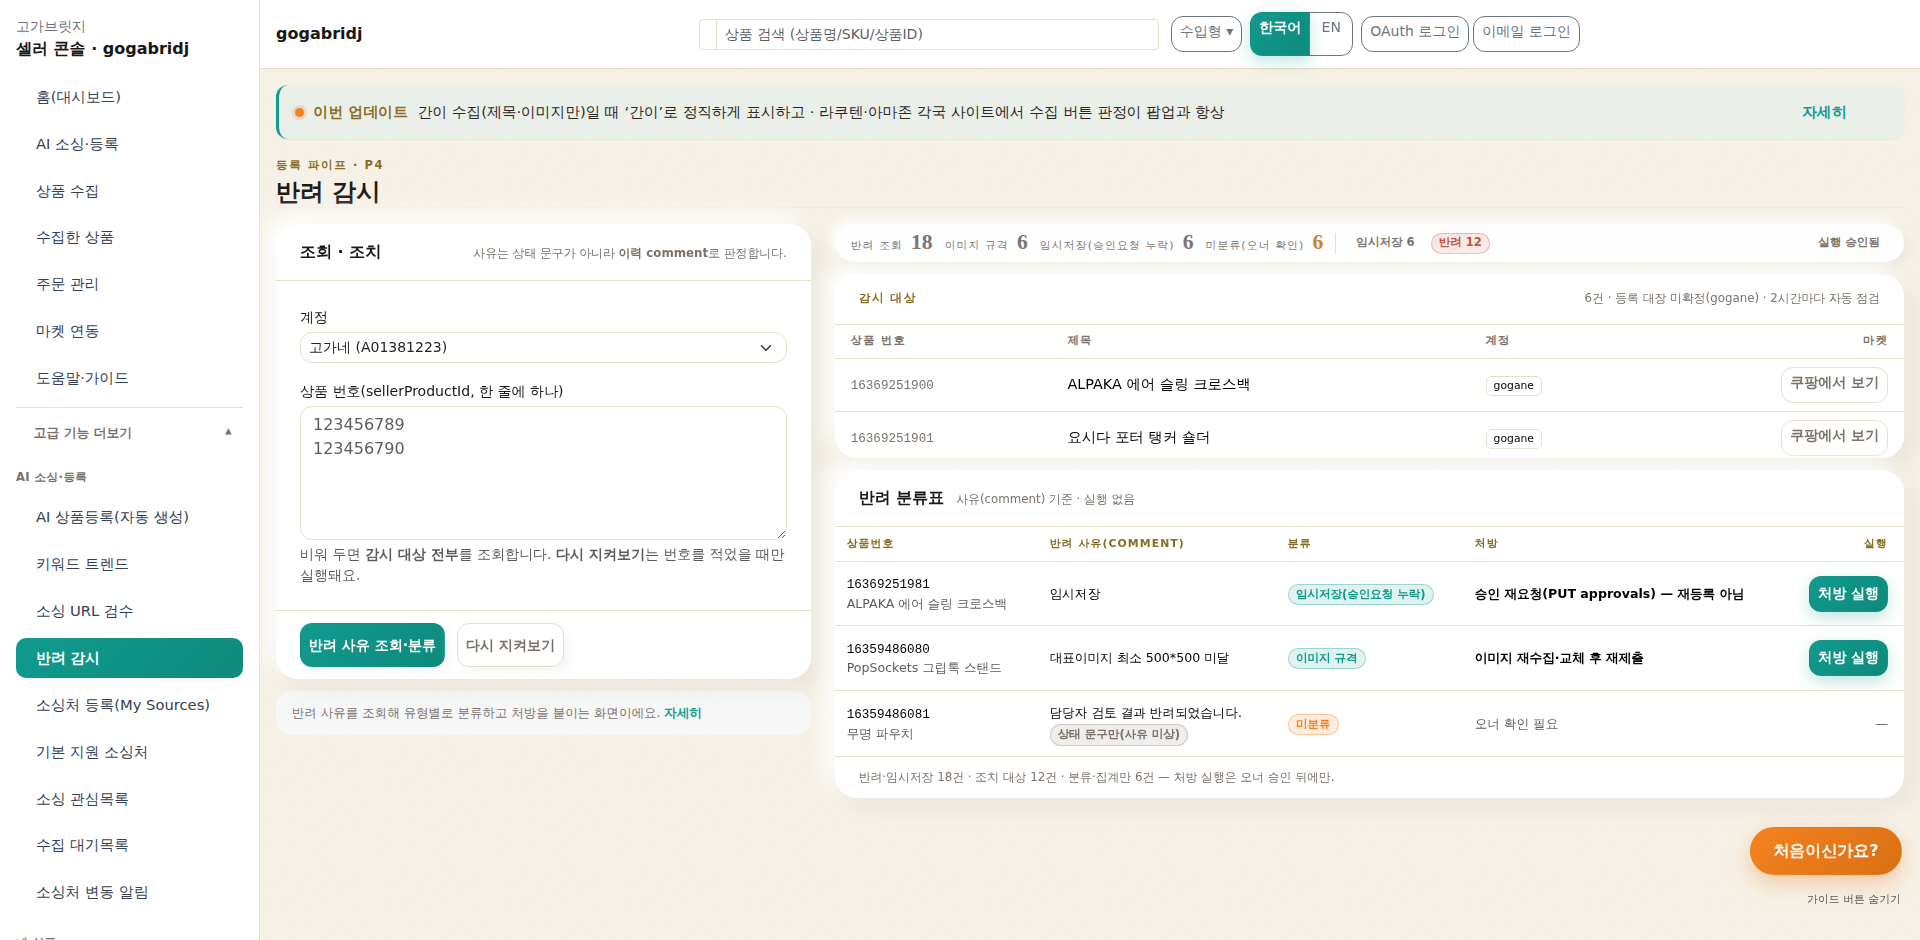
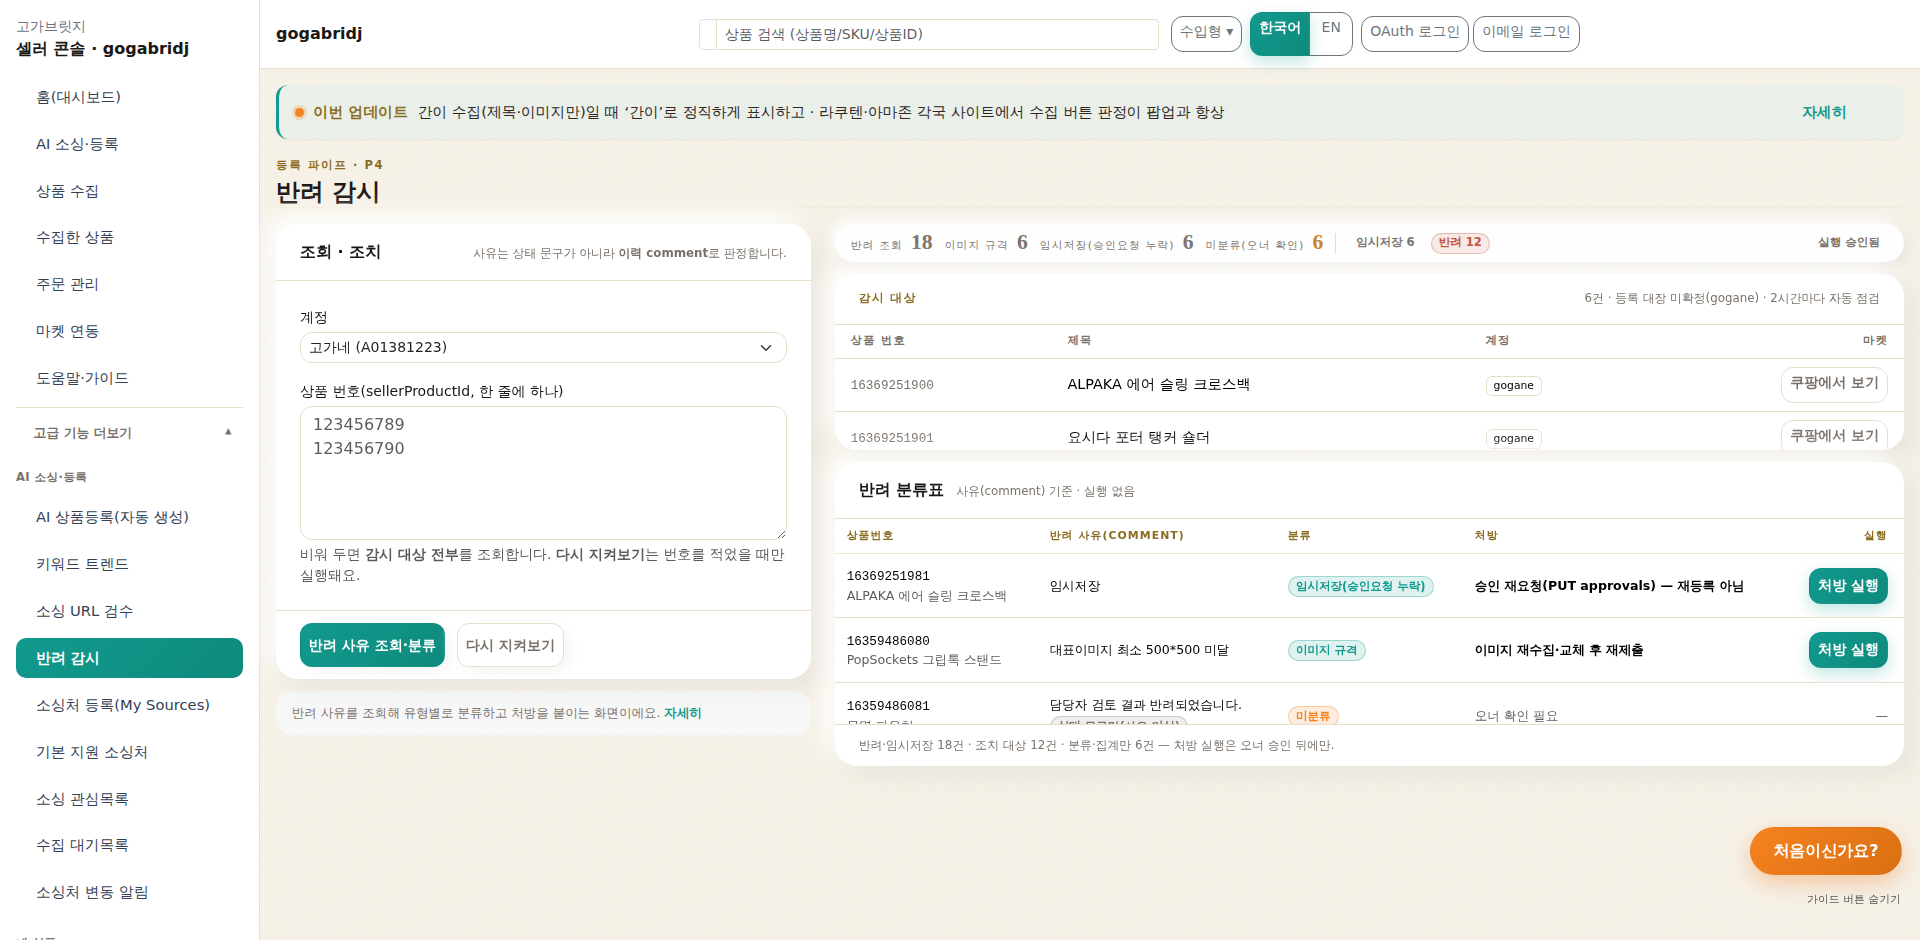
6-h 계약 CI 수리 — 부트스트랩 없이 재면 다른 화면을 잰다
로컬 그린, CI 레드. 원인은 하나다: **CI엔 부트스트랩 CSS가 없었다.**
앱은 그 CSS를 CDN으로 싣는데 캡처 계약은 없이 렌더해서, 같은 화면을 두고
로컬 940 / CI 1161을 쟀다. 숫자가 다른 게 아니라 **잰 대상이 달랐다.**

1) CI가 앱의 실제 스타일시트로 재게 한다 — jsdom과 같은 자리에 `npm install bootstrap@5.3.0`.
2) 탐색 경로를 `node_modules` → `/tmp/bsdl` 순으로 넓히고, **못 찾으면 조용히 넘어가지 않는다.**
   없으면 실패로 드러낸다 — 조용히 다른 화면을 재고 그린을 내는 게 이 결함의 본체였다.
3) 여유를 숫자로 못 박는다. `scrollHeight`는 뷰포트보다 작아지지 않아(clamp) '넘쳤나'만 말하고
   **여유는 못 보여준다.** 콘텐츠 실제 바닥을 재서 20px 여유를 요구한다 —
   CI엔 우리 웹폰트가 없어 글자 높이가 미세하게 다르고, 로컬에서 0px로 맞춘 값이 그래서 깨졌다.
   상한을 32px 깎아 940 → ~908.

전체 12,984 passed / 53 skipped

Claude-Session: https://claude.ai/code/session_01PxGVkp5f6YphwkqMwzi5ZE

diff --git a/src/static/app.css b/src/static/app.css
@@ -1927,9 +1927,10 @@ main:has(> .rp-shell) > .rp-shell { flex: 1 1 auto; height: auto; min-height: 0;
 /* 내부 스크롤은 **이 둘만**(오너 H1). `.op-card-body`가 이미 `overflow-y:auto`라
    카드에 상한만 주면 스크롤이 카드 안으로 들어온다. */
 /* 실측으로 정한 값이다(어림이 아니라): 상한을 이보다 키우면 940을 넘는다.
-   1760 → 945 → 여기서 두 카드 24px을 깎아 **929**. 남는 11px은 폰트·반올림 여유다. */
-.rw-card-watch { max-height: 11.5rem; }
-.rw-card-table { max-height: 20.5rem; }
+   1760 → 945 → 두 카드를 깎아 940. **여기서 32px을 더 깎아 ~908로 둔다** —
+   CI에는 우리 웹폰트가 없어 글자 높이가 미세하게 다르다(로컬 940 정확은 그래서 위험하다). */
+.rw-card-watch { max-height: 11rem; }
+.rw-card-table { max-height: 19rem; }
 
 /* 요약 스트립 — 카드 2장을 한 줄로. 수치는 세리프, 라벨은 오버라인(6-a 문법). */
 .rw-strip { margin-bottom: 0; padding: var(--space-2) var(--space-4); }

diff --git a/tests/test_v40s6h_reject_watch.py b/tests/test_v40s6h_reject_watch.py
@@ -74,9 +74,15 @@ def _pw_ok():
     return cache.is_dir() and any(cache.glob("chromium-*"))
 
 
-CSS_FILES = ("/tmp/bsdl/node_modules/bootstrap/dist/css/bootstrap.min.css",
-             "src/static/app.css", "src/seller_console/static/seller.css",
-             "src/seller_console/static/console.css")
+# 부트스트랩은 앱이 CDN으로 싣는 **실제 스타일시트**다. 없이 재면 다른 화면을 재는 것이고,
+# 그 숫자로 "한 화면에 들어간다"를 말할 수 없다(CI 실측: 없으면 940 대신 1161).
+# 그래서 **조용히 넘어가지 않고** 못 찾으면 그 사실이 실패로 드러나게 한다.
+_BS_CANDIDATES = ("node_modules/bootstrap/dist/css/bootstrap.min.css",
+                  "/tmp/bsdl/node_modules/bootstrap/dist/css/bootstrap.min.css")
+BOOTSTRAP = next((p for p in _BS_CANDIDATES if Path(p).exists()), None)
+CSS_FILES = tuple(x for x in (BOOTSTRAP, "src/static/app.css",
+                              "src/seller_console/static/seller.css",
+                              "src/seller_console/static/console.css") if x)
 
 PROBE = """() => {
   const scrollers = [];
@@ -84,8 +90,12 @@ PROBE = """() => {
     const s = getComputedStyle(e);
     if (/(auto|scroll)/.test(s.overflowY) && e.scrollHeight > e.clientHeight + 4) scrollers.push(1);
   });
+  // scrollHeight는 뷰포트보다 작아지지 않는다(clamp) — 그래서 '넘쳤나'만 알려주고 **여유는 못 보여준다.**
+  //   여유를 재려면 콘텐츠의 실제 바닥을 봐야 한다. CI엔 우리 웹폰트가 없어 글자 높이가 미세하게
+  //   다르니, 로컬에서 딱 맞춘 값은 CI에서 넘칠 수 있다(6-h에서 실제로 그렇게 깨졌다).
+  const main = document.querySelector('main').getBoundingClientRect();
   return {total: document.documentElement.scrollHeight, vh: window.innerHeight,
-          scrollers: scrollers.length,
+          contentBottom: Math.round(main.bottom), scrollers: scrollers.length,
           cols: document.querySelectorAll('.rw-page > .rw-col').length};
 }"""
 
@@ -160,9 +170,14 @@ def test_fits_one_viewport(n_scan, n_watch, label):
     행이 늘 때 페이지가 자라면 상한이 무는 게 아니라 '지금 데이터에서만 맞는' 레이아웃이다.
     그래서 18행짜리도 같이 잰다 — 상한이 실제로 무는지가 이 계약의 값어치다.
     """
+    assert BOOTSTRAP, ("부트스트랩 CSS를 못 찾았다 — 라이브와 **다른 화면**을 재게 된다. "
+                       f"찾은 자리: {_BS_CANDIDATES}")
     r = _measure(n_scan, n_watch)
     assert r["cols"] == 2, "2단이 아니다"
     assert r["total"] <= r["vh"], f"{label}: scrollHeight {r['total']} > 뷰포트 {r['vh']}"
+    # 여유도 함께 못 박는다 — 0px로 맞추면 폰트가 다른 환경에서 바로 넘친다(그게 CI를 깨뜨렸다).
+    assert r["contentBottom"] <= r["vh"] - 20, \
+        f"{label}: 콘텐츠 바닥 {r['contentBottom']} — 여유 20px 미만이면 다른 환경에서 넘친다"
 
 
 @pytest.mark.skipif(not _pw_ok(), reason="크로미움 없음 — 정직하게 skip")

diff --git a/tests/test_floating_overlap.py b/tests/test_floating_overlap.py
@@ -158,9 +158,11 @@ PROBE = """(ids) => {
 
 # 순서는 **프로덕션과 같아야 한다**(_base.html: bootstrap → app → seller → console).
 # 순서가 다르면 `!important`끼리 붙었을 때 승자가 바뀌어, 캡처가 라이브와 다른 화면이 된다.
-CSS_FILES = ("/tmp/bsdl/node_modules/bootstrap/dist/css/bootstrap.min.css",
-             "src/static/app.css", "src/seller_console/static/seller.css",
-             "src/seller_console/static/console.css")
+_BS_CANDIDATES = ("node_modules/bootstrap/dist/css/bootstrap.min.css",
+                  "/tmp/bsdl/node_modules/bootstrap/dist/css/bootstrap.min.css")
+CSS_FILES = tuple([p for p in _BS_CANDIDATES if Path(p).exists()][:1]
+                  + ["src/static/app.css", "src/seller_console/static/seller.css",
+                     "src/seller_console/static/console.css"])
 
 
 def _page_html(route: str) -> str:
